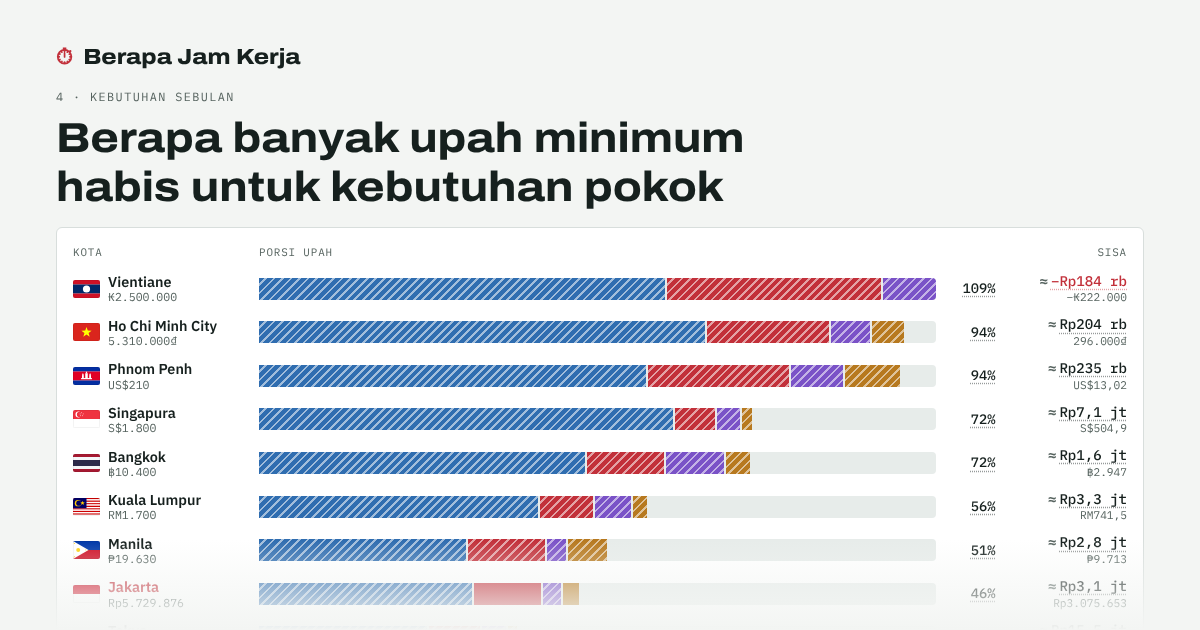
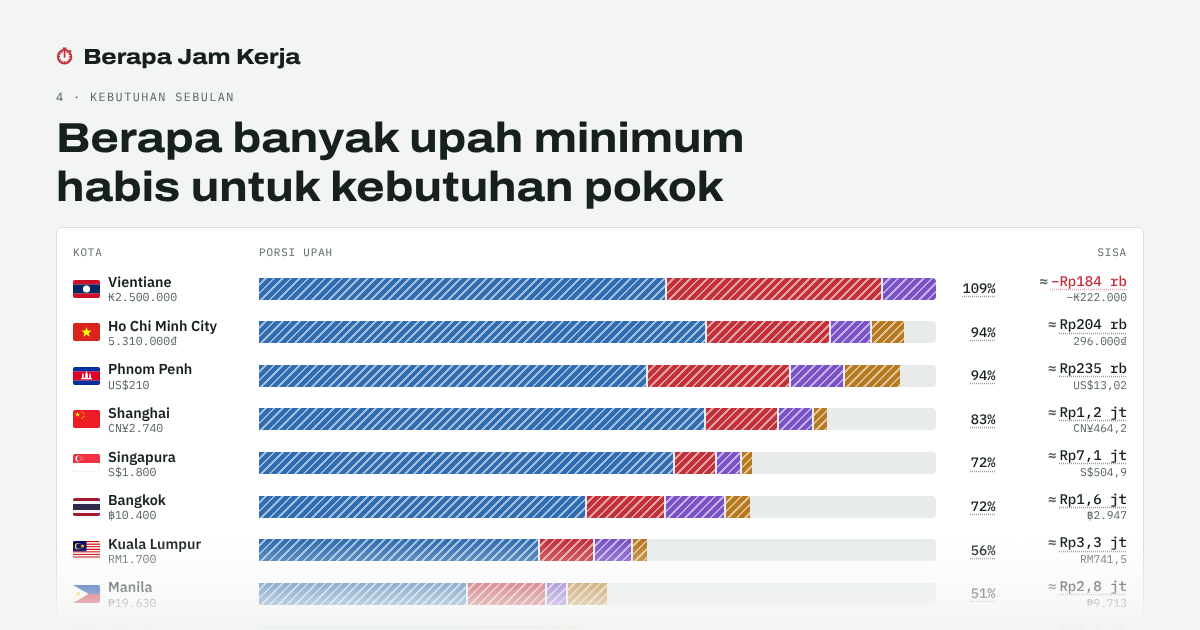
Add Shanghai; translate data notes into Indonesian
- Shanghai (China): ¥2.740 monthly minimum (CNA, citing MOHRSS), 174 h
  official monthly basis, iPhone from Apple China, Big Mac and FX from
  The Economist, Netflix not available; other prices tagged estimates
- China flag and Oriental Pearl Tower landmark
- data/notes-id.json gives every data note an Indonesian version;
  check-data flags notes without one
- ?lang=en|id in the URL; the language switch keeps it in sync
- Source pop-up labels (as of, per month, per item) translated

Claude-Session: https://claude.ai/code/session_01YBPHbJeSD2zGmbrJWrzKjv

diff --git a/src/i18n.ts b/src/i18n.ts
@@ -9,8 +9,8 @@ const dict = {
   'hero.title.b': { id: 'hidup pas-pasan', en: 'live basic' },
   'hero.title.c': { id: '?', en: '?' },
   'hero.lede': {
-    id: 'Harga dalam rupiah terlihat murah kalau dihitung dalam dolar. Ukuran yang lebih adil: berapa lama pekerja bergaji upah minimum harus bekerja untuk membayar beras, kamar kos, ongkos bus, atau iPhone. Situs ini mengubah setiap harga menjadi waktu kerja di Indonesia, Asia Tenggara, Korea, dan Jepang.',
-    en: 'Rupiah prices look cheap in dollars. The fairer test is how long a minimum-wage worker has to work to pay for rice, a room, a bus ride or an iPhone. This site converts every price into work time across Indonesia, Southeast Asia, Korea and Japan.',
+    id: 'Harga dalam rupiah terlihat murah kalau dihitung dalam dolar. Ukuran yang lebih adil: berapa lama pekerja bergaji upah minimum harus bekerja untuk membayar beras, kamar kos, ongkos bus, atau iPhone. Situs ini mengubah setiap harga menjadi waktu kerja di Indonesia, Asia Tenggara, Tiongkok, Korea, dan Jepang.',
+    en: 'Rupiah prices look cheap in dollars. The fairer test is how long a minimum-wage worker has to work to pay for rice, a room, a bus ride or an iPhone. This site converts every price into work time across Indonesia, Southeast Asia, China, Korea and Japan.',
   },
   'hero.v.iphone': { id: 'iPhone 17 di Jakarta', en: 'iPhone 17 in Jakarta' },
   'hero.v.iphoneVs': { id: 'hari kerja · Tokyo {x} · Singapura {y}', en: 'workdays · Tokyo {x} · Singapore {y}' },
@@ -41,7 +41,7 @@ const dict = {
   'map.aria': { id: 'Peta kota dengan lingkaran sesuai waktu kerja', en: 'Map of cities sized by work time' },
   'map.loading': { id: 'Memuat peta…', en: 'Loading map…' },
 
-  'item.eyebrow': { id: '2 · Satu barang, sebelas kota', en: '2 · One item, eleven cities' },
+  'item.eyebrow': { id: '2 · Satu barang, dua belas kota', en: '2 · One item, twelve cities' },
   'item.title': { id: 'Harga satu barang, diukur dengan kerja', en: 'The price of one thing, measured in work' },
   'item.lede': {
     id: 'Pilih barang. Batang menunjukkan waktu kerja upah minimum per satuan. Ganti ke dolar untuk melihat kenapa "Indonesia murah" bisa terasa tidak benar.',
@@ -178,8 +178,8 @@ const dict = {
     en: 'Pay per minute = monthly wage ÷ (monthly hours × 60). Work time = price ÷ pay per minute. Small items show minutes or hours, big ones 8-hour workdays.',
   },
   'method.p2': {
-    id: 'Jam kerja sebulan: 173 (ID, JP), 191 (SG), 195 (MY), 208 (TH, VN, PH, KH, LA), 209 (KR). Upah harian dikalikan jam sebulan ÷ 8. Setiap angka hasil hitungan ikut status terlemah dari masukannya, jadi apa pun yang dibangun dari perkiraan ditandai perkiraan. Myanmar tidak dimasukkan karena data kurs dan harganya tidak andal.',
-    en: 'Monthly hours: 173 (ID, JP), 191 (SG), 195 (MY), 208 (TH, VN, PH, KH, LA), 209 (KR). Daily wages count monthly hours ÷ 8 days. Every computed figure takes the weakest status of its inputs, so anything built on an estimate is marked as one. Myanmar is left out because its exchange-rate and price data are unreliable.',
+    id: 'Jam kerja sebulan: 173 (ID, JP), 174 (CN), 191 (SG), 195 (MY), 208 (TH, VN, PH, KH, LA), 209 (KR). Upah harian dikalikan jam sebulan ÷ 8. Setiap angka hasil hitungan ikut status terlemah dari masukannya, jadi apa pun yang dibangun dari perkiraan ditandai perkiraan. Myanmar tidak dimasukkan karena data kurs dan harganya tidak andal.',
+    en: 'Monthly hours: 173 (ID, JP), 174 (CN), 191 (SG), 195 (MY), 208 (TH, VN, PH, KH, LA), 209 (KR). Daily wages count monthly hours ÷ 8 days. Every computed figure takes the weakest status of its inputs, so anything built on an estimate is marked as one. Myanmar is left out because its exchange-rate and price data are unreliable.',
   },
 
   'status.official': { id: 'resmi', en: 'official' },
@@ -195,6 +195,12 @@ const dict = {
   'unit.min': { id: 'mnt', en: 'min' },
   'unit.h': { id: 'jam', en: 'h' },
   'unit.day': { id: 'hari', en: 'days' },
+  'prov.asof': { id: 'berlaku', en: 'as of' },
+  'per.month': { id: 'bulan', en: 'month' },
+  'per.day': { id: 'hari', en: 'day' },
+  'per.hour': { id: 'jam', en: 'hour' },
+  'per.item': { id: 'buah', en: 'item' },
+  'per.ride': { id: 'sekali naik', en: 'ride' },
   'prov.title': { id: 'Dari mana angka ini', en: 'Where this number comes from' },
   'prov.close': { id: 'Tutup', en: 'Close' },
   'prov.computed': { id: 'Dihitung dari:', en: 'Computed from:' },

diff --git a/src/main.ts b/src/main.ts
@@ -13,7 +13,7 @@ import {
   regionsSection,
   wishSection,
 } from './sections';
-import { readHash, resetEdits, setEdit, setUi, source, subscribe, ui, writeHash, type EditedDatum, type UiState } from './store';
+import { noteText, readHash, resetEdits, setEdit, setUi, source, subscribe, ui, writeHash, type EditedDatum, type UiState } from './store';
 import { getProv, resetProv } from './ui';
 
 const SECTIONS: [string, () => string][] = [
@@ -129,7 +129,12 @@ document.addEventListener('click', (e) => {
   if (set) {
     const key = set.dataset.set as keyof UiState;
     const value = set.dataset.value!;
-    if (key === 'lang') setLang(value as Lang);
+    if (key === 'lang') {
+      setLang(value as Lang);
+      const url = new URL(location.href);
+      url.searchParams.set('lang', value);
+      history.replaceState(null, '', url);
+    }
     setUi({ [key]: value } as Partial<UiState>);
     const section = HASH_OF[key];
     if (section) writeHash(section, value.toLowerCase());
@@ -162,6 +167,13 @@ document.addEventListener('input', (e) => {
 
 // ---- provenance dialog
 const dialog = document.getElementById('prov') as HTMLDialogElement;
+/** "kg", "L", "kWh" stay as they are; words get translated. */
+function perLabel(per: string): string {
+  const k = `per.${per}`;
+  return k in PER ? t(k as keyof typeof PER) : per;
+}
+const PER = { 'per.month': 1, 'per.day': 1, 'per.hour': 1, 'per.item': 1, 'per.ride': 1 } as const;
+
 function openProv(id: number) {
   const p = getProv(id);
   if (!p) return;
@@ -169,13 +181,18 @@ function openProv(id: number) {
     .map((d: EditedDatum) => {
       const s = source(d.sourceId);
       const [cur, per] = d.unit.split('/');
-      const val = d.value === null ? t('notsold') : /^[A-Z]{3}$/.test(cur!) ? `${money(d.value, cur!)} / ${per}` : `${num(d.value, 2)} ${d.unit}`;
+      const val =
+        d.value === null
+          ? t('notsold')
+          : /^[A-Z]{3}$/.test(cur!)
+            ? `${money(d.value, cur!)} / ${perLabel(per!)}`
+            : `${num(d.value, 2)} ${cur === 'h' ? t('unit.h') : cur} / ${perLabel(per!)}`;
       const orig = d.edited ? `<div class="pv-edit">${t('status.edited')} · ${d.edited.original === null ? '–' : num(d.edited.original, 2)}</div>` : '';
       const link = s?.url ? `<a href="${esc(s.url)}" target="_blank" rel="noopener">${esc(s.title)}</a>` : esc(s?.title ?? d.sourceId);
       return `<li><div class="pv-val"><b>${esc(val)}</b><span class="tag tag-${d.status}">${t(`status.${d.status}`)}</span></div>${orig}
-        <div>${link}</div><div class="pv-meta">${esc(s?.publisher ?? '')} · asOf ${esc(d.asOf)}${
+        <div>${link}</div><div class="pv-meta">${esc(s?.publisher ?? '')} · ${t('prov.asof')} ${esc(d.asOf)}${
           s?.accessed ? ` · ${t('data.accessed')} ${s.accessed}` : ''
-        }</div>${d.note ? `<div class="pv-note">${esc(d.note)}</div>` : ''}</li>`;
+        }</div>${d.note ? `<div class="pv-note">${esc(noteText(d.note))}</div>` : ''}</li>`;
     })
     .join('');
   dialog.innerHTML = `<form method="dialog"><div class="pv-head"><div><div class="eyebrow">${t('prov.title')}</div><h3>${esc(p.label)}</h3><div class="pv-value">${p.value}</div></div><button class="btn" autofocus>${t(

diff --git a/src/sections.ts b/src/sections.ts
@@ -6,7 +6,7 @@ import { flag } from './art/flags';
 import { esc, money, narrow, num, pct, rpShort, smart, workTime } from './format';
 import { L, t, type Key } from './i18n';
 import { basket, toLocal, toUsd, weakest, workMinutes, type Derived } from './lib/model';
-import { data, editCount, source, ui, type EditedDatum } from './store';
+import { data, editCount, noteText, source, ui, type EditedDatum } from './store';
 import {
   barLegend,
   barRows,
@@ -54,7 +54,7 @@ export function hero(): string {
     .map((f) => f.updated)
     .sort()
     .pop();
-  const strip = ['jakarta', 'kuala-lumpur', 'singapore', 'bangkok', 'ho-chi-minh-city', 'phnom-penh', 'vientiane', 'manila', 'seoul', 'tokyo']
+  const strip = ['jakarta', 'kuala-lumpur', 'singapore', 'bangkok', 'ho-chi-minh-city', 'phnom-penh', 'vientiane', 'manila', 'shanghai', 'seoul', 'tokyo']
     .map((id) => `<span class="sk${id === 'jakarta' ? ' sk-id' : ''}" title="${esc(L(landmarkName(id)!))}">${landmark(id)}</span>`)
     .join('');
   return `
@@ -148,7 +148,7 @@ export function wishSection(): string {
   );
   const notes = Object.entries(item.prices)
     .filter(([, v]) => v.value === null && v.note)
-    .map(([, v]) => esc(v.note!))
+    .map(([, v]) => esc(noteText(v.note!)))
     .join(' ');
   return `${head('wish.eyebrow', 'wish.title', 'wish.lede', 'wishlist')}
   ${chips('wish', t('wish.item'), d.wishlist.items.map((i) => ({ value: i.id, label: L(i.label) })), item.id)}
@@ -528,7 +528,7 @@ export function dataSection(): string {
       (s) =>
         `<li id="src-${s.id}"><b>${s.url ? `<a href="${esc(s.url)}" target="_blank" rel="noopener">${esc(s.title)}</a>` : esc(s.title)}</b> · ${esc(s.publisher)} · ${
           s.accessed ? `${t('data.accessed')} ${s.accessed}` : t('data.noaccess')
-        }${s.note ? `<br><small>${esc(s.note)}</small>` : ''}</li>`,
+        }${s.note ? `<br><small>${esc(noteText(s.note))}</small>` : ''}</li>`,
     )
     .join('');
   return `${head('data.eyebrow', 'data.title', 'data.lede', 'data')}

diff --git a/scripts/check-data.ts b/scripts/check-data.ts
@@ -207,6 +207,24 @@ for (const s of ts.series) {
   }
 }
 
+// ---- notes-id.json: Indonesian versions of every English note
+const notesId = load<{ schemaVersion: 1; dataset: string; updated: string; notes: Record<string, string> }>('notes-id.json');
+checkMeta('notes-id.json', notesId);
+const allNotes = new Set<string>();
+const collect = (o: unknown): void => {
+  if (Array.isArray(o)) o.forEach(collect);
+  else if (o && typeof o === 'object') {
+    const note = (o as { note?: unknown }).note;
+    if (typeof note === 'string') allNotes.add(note);
+    Object.values(o).forEach(collect);
+  }
+};
+[placesFile, pricesFile, wish, regions, ts, sourcesFile].forEach(collect);
+const untranslated = [...allNotes].filter((n) => !notesId.notes[n]);
+if (untranslated.length)
+  gaps.push(`notes-id.json: ${untranslated.length} notes have no Indonesian version${verbose ? `:\n      ${untranslated.join('\n      ')}` : ' (--verbose to list)'}`);
+for (const k of Object.keys(notesId.notes)) if (!allNotes.has(k)) notes.push(`notes-id.json: translation for a note no longer in the data: "${k.slice(0, 60)}…"`);
+
 // ---- report
 for (const s of sourcesFile.sources) if (!usedSources.has(s.id)) notes.push(`sources.json: ${s.id} is not cited by any value`);
 const prototypeCount = usedSources.get('bjk-prototype-2026-10') ?? 0;

diff --git a/src/store.ts b/src/store.ts
@@ -6,6 +6,7 @@ import regionsJson from '../data/regions-id.json';
 import tsJson from '../data/timeseries-jakarta.json';
 import sourcesJson from '../data/sources.json';
 import methodJson from '../data/method.json';
+import notesIdJson from '../data/notes-id.json';
 import type {
   Datum,
   MethodFile,
@@ -98,6 +99,13 @@ export function resetEdits() {
   emit();
 }
 
+const notesId = (notesIdJson as { notes: Record<string, string> }).notes;
+
+/** Data notes are written in English; show the Indonesian version when the page is in Indonesian. */
+export function noteText(note: string): string {
+  return ui.lang === 'id' ? (notesId[note] ?? note) : note;
+}
+
 export function source(id: string): Source | undefined {
   return base.sources.sources.find((s) => s.id === id);
 }
@@ -121,6 +129,9 @@ export interface UiState {
 }
 
 const prefs = readJson<Partial<UiState>>(PREFS_KEY, {});
+// ?lang=en / ?lang=id in a shared link wins over the reader's saved choice.
+const urlLang = new URLSearchParams(location.search).get('lang');
+if (urlLang === 'en' || urlLang === 'id') prefs.lang = urlLang;
 export const ui: UiState = {
   lang: prefs.lang ?? 'id',
   theme: prefs.theme ?? 'auto',

diff --git a/src/art/landmarks.ts b/src/art/landmarks.ts
@@ -42,6 +42,10 @@ const L: Record<string, { name: { id: string; en: string }; d: string }> = {
     name: { id: 'N Seoul Tower', en: 'N Seoul Tower' },
     d: 'M4 60c10-10 20-14 28-14s18 4 28 14M30 46V24h4v22M26 24h12l-2-6h-8zM29 18v-4h6v4M32 14V4M24 46h16',
   },
+  shanghai: {
+    name: { id: 'Menara Mutiara Timur', en: 'Oriental Pearl Tower' },
+    d: 'M8 60h48M24 60l6-14M40 60l-6-14M26 46a6 6 0 1 0 12 0a6 6 0 1 0-12 0M30 40V22M34 40V22M28 18a4 4 0 1 0 8 0a4 4 0 1 0-8 0M32 14V3M20 60l10-10M44 60L34 50',
+  },
   tokyo: {
     name: { id: 'Menara Tokyo', en: 'Tokyo Tower' },
     d: 'M8 60h48M14 60L29 10h6l15 50M19 44h26M24 28h16M27 18h10M32 10V3M19 44l13-16 13 16M22 60c2-6 6-10 10-10s8 4 10 10',

diff --git a/src/art/flags.ts b/src/art/flags.ts
@@ -26,6 +26,14 @@ const stripes = (colors: [string, number][]) => {
 
 const BODY: Record<string, string> = {
   ID: stripes([['#CE1126', 1], ['#FFFFFF', 1]]),
+  CN: `<rect width="30" height="20" fill="#EE1C25"/>${star(5, 5, 3, '#FFFF00')}${[
+    [10, 2],
+    [12, 4],
+    [12, 7],
+    [10, 9],
+  ]
+    .map(([x, y]) => star(x!, y!, 1, '#FFFF00'))
+    .join('')}`,
   JP: `<rect width="30" height="20" fill="#fff"/><circle cx="15" cy="10" r="6" fill="#BC002D"/>`,
   VN: `<rect width="30" height="20" fill="#DA251D"/>${star(15, 10.4, 6, '#FFFF00')}`,
   TH: stripes([['#A51931', 1], ['#F4F5F8', 1], ['#2D2A4A', 2], ['#F4F5F8', 1], ['#A51931', 1]]),

diff --git a/src/format.ts b/src/format.ts
@@ -14,7 +14,7 @@ export function smart(v: number): string {
 }
 
 const SYMBOL: Record<string, string> = {
-  IDR: 'Rp', MYR: 'RM', SGD: 'S$', THB: '฿', VND: '₫', PHP: '₱', USD: 'US$', LAK: '₭', KRW: '₩', JPY: '¥',
+  IDR: 'Rp', MYR: 'RM', SGD: 'S$', THB: '฿', VND: '₫', PHP: '₱', USD: 'US$', LAK: '₭', KRW: '₩', JPY: '¥', CNY: 'CN¥',
 };
 
 export function money(v: number, currency: string): string {

diff --git a/README.md b/README.md
@@ -34,6 +34,7 @@ data/                     all numbers, versioned; nothing numeric lives in code
   regions-id.json         2026 UMP/UMK for Indonesian regions
   timeseries-jakarta.json Jakarta UMP 2000–2026 and published rice-price anchors
   sources.json            every source: title, publisher, URL, access date
+  notes-id.json           Indonesian version of every English note (shown when the page is in Indonesian)
   method.json             basket quantities, workday length, index base year
 scripts/check-data.ts     validator (npm run check-data)
 scripts/og.ts             share images and share pages (npm run og)
@@ -76,7 +77,7 @@ Every number is a **Datum**:
 ## Method
 
 - Pay per minute = monthly wage ÷ (monthly hours × 60). Work time = price ÷ pay per minute.
-- Monthly hours: 173 (ID, JP), 191 (SG), 195 (MY), 208 (TH, VN, PH, KH, LA), 209 (KR): each country's statutory normal week × 52 ÷ 12 (Korea's official 209), stored per place with the law in `note`.
+- Monthly hours: 173 (ID, JP), 174 (CN), 191 (SG), 195 (MY), 208 (TH, VN, PH, KH, LA), 209 (KR): each country's statutory normal week × 52 ÷ 12 (Korea's official 209), stored per place with the law in `note`.
 - Daily wages count monthly hours ÷ 8 days (e.g. Bangkok ฿400 × 26).
 - Monthly basics basket for one person (`method.json`): one room, 8 kg rice, 3 kg eggs, 4 kg chicken, 1 kg beef, 2 L oil, 90 kWh electricity, 44 transit rides. Leftover = wage − basket.
 - Every computed figure carries the weakest status of its inputs, so anything built on an estimate is shown as an estimate.
@@ -90,6 +91,7 @@ Every number is a **Datum**:
 - Each city carries its flag and a line-drawn landmark (Monas, Petronas Towers, Marina Bay Sands, Wat Arun, Bitexco, a jeepney, Independence Monument, Patuxai, N Seoul Tower, Tokyo Tower, a KRL train for Bekasi).
 - Basket colours (room, food, transit, electricity) are validated for colour-blind separation and 3:1 contrast in both themes.
 - Sections render as they near the screen; the map and world atlas load after first paint.
+- Bahasa Indonesia by default; `?lang=en` (or the ID | EN switch) gives English, and the switch updates the address so it can be shared as-is.
 - URL hash keeps the view: `#wishlist-iphone`, `#item-beef`, `#map-bigmac`, `#history-eggs`, `#regions-umk`.
 
 ## Updating data

diff --git a/DATA_UPDATE.md b/DATA_UPDATE.md
@@ -23,3 +23,4 @@ Do this once a month, plus the dated items below. After editing, run `npm run ch
 - Not sold in a country → `value: null` with a `note`. Not found yet → leave the field out.
 - Don't add interpolated points to the time series; add published anchors only.
 - Add every new source to `sources.json` with the date you read it.
+- Write notes in English and add the Indonesian version to `notes-id.json` (key = the English note). `check-data` lists notes without one.
